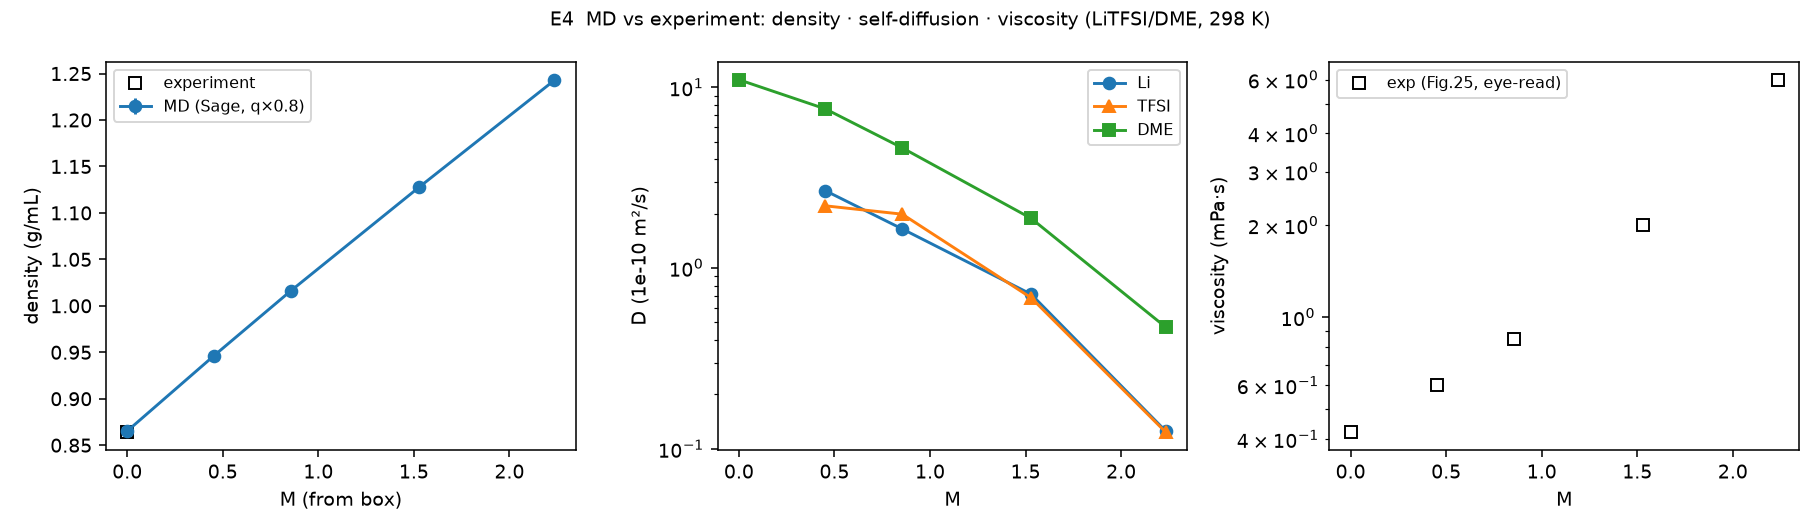
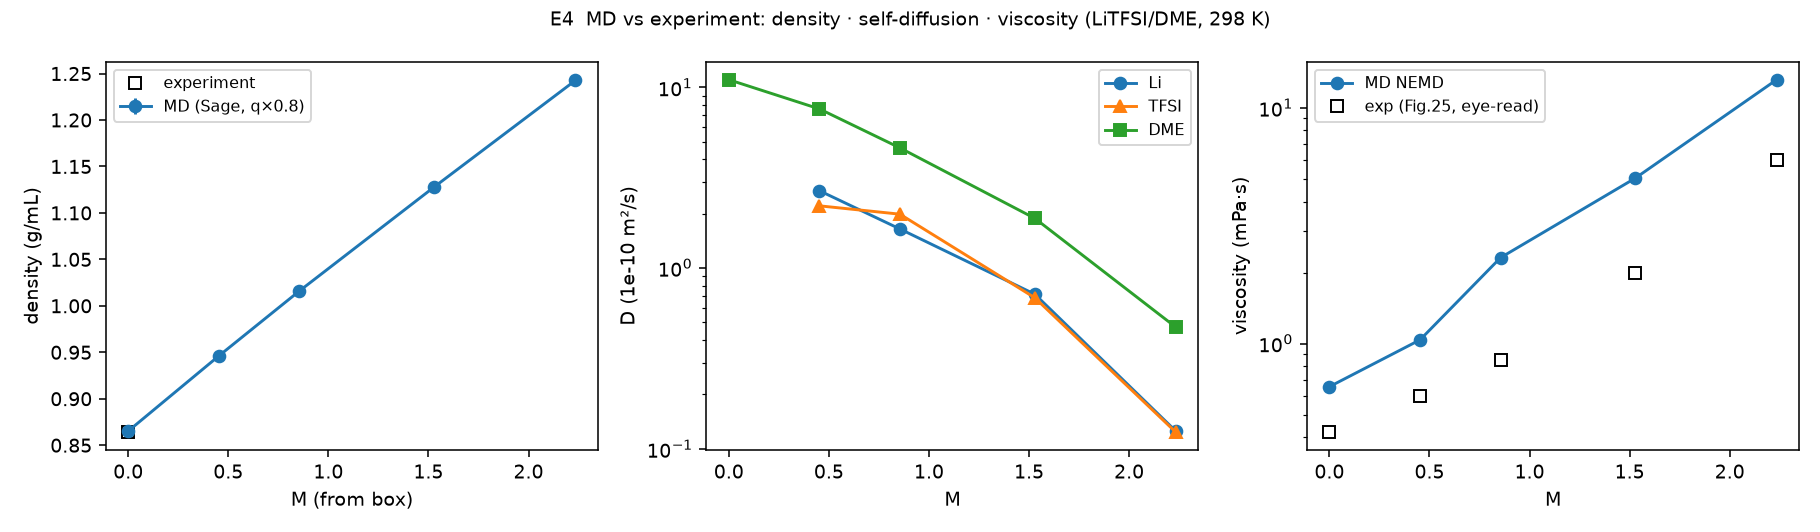
Draft REPORT_ELECTROLYTE.md with E1–E7, E9 results; add E6 and E4 figures
Claude-Session: https://claude.ai/code/session_01TPqN6aRH5ozdSoDnQ4tZ41

diff --git a/REPORT_ELECTROLYTE.md b/REPORT_ELECTROLYTE.md
@@ -1,0 +1,194 @@
+# 电解液计算专题：把综述里的方法真的跑一遍
+
+对象：Yao et al., *Chem. Rev.* 2022, 122, 10970 的 10 页方法摘要（p2–p6, p8–p12）。
+体系：LiTFSI/DME 浓度系列 + NaTFSI/DME 对照 + 石墨/电解液界面 + Li⁺–EC/DME 团簇。
+代码：`electrolyte_pipeline/`，每页一个模块；轨迹在 Modal A10G 上生成，分析与量子化学在本地 CPU。
+
+每个数字带三种标签之一：
+✅ 已做统计检查（分块误差、积分平台、线性响应）；⚠ 流程跑通但统计或模型不足以支持定量结论；❌ 未做、并说明原因。
+
+---
+
+## 0. 模型定义（p4 “建模信息至少写到这个程度”）
+
+| 项目 | 记录 |
+|---|---|
+| 组成 | 200 DME + n LiTFSI，n = 0 / 10 / 20 / 40 / 67（DME:Li = ∞ / 20 / 10 / 5 / 3）；NaTFSI n = 20 |
+| 浓度 | 主变量是 DME:Li 比；摩尔浓度由 NPT 平衡后的盒体积换算：M = N_Li / (N_A·V)，得 0.45 / 0.85 / 1.53 / 2.23 M |
+| 边界 | 立方周期盒 3.4–4.0 nm 初值，NPT 松弛；总电荷 0 |
+| 相互作用 | OpenFF Sage 2.2.1（SMIRNOFF），NAGL GNN AM1-BCC 分子电荷；离子形式电荷 ×0.8；PME，截断 1.0 nm，切换 0.9 nm，色散尾修正 |
+| 动力学 | Langevin-middle 298.15 K，1 ps⁻¹；MC 恒压 1 bar；2 fs，H 键约束；2 ns 平衡 + 10 ns 生产，帧间隔 2 ps |
+| 文件 | 每个体系目录含 system_record.json / system.xml / initial.pdb / equil.csv / prod.csv / prod.dcd / run_record.json（p4 “四类文件”） |
+
+力场不是为 LiTFSI/DME 专门调过的通用力场；电荷缩放 0.8 是非极化力场做输运的常见做法。这两点是所有输运结果偏差的首要来源，E4 里用 q = 1.0 的对照体系明确检查了敏感性。
+
+**平衡检查**（p4 “先检查结构，再讨论长轨迹”）：平衡段后半段密度的分块漂移在所有体系都 ≤ 0.5 %；代码里的自动判据（漂移 < 2×分块标准差）在 r10/r5/r3 三个体系报 ⚠，因为分块标准差本身只有 0.1–0.2 %。生产段密度分块 SEM ≤ 0.0007 g/mL。结论：密度层面 ✅，但 r3（2.2 M）的势能仍有 −93 kJ/mol 的缓慢漂移（分块 SD 65），高浓体系 10 ns 不够长，其动力学量按 ⚠ 处理。
+
+---
+
+## 1. RDF 与配位数（p5）— `e2_rdf_cn`
+
+RDF 用整盒均匀密度归一化；r_min 取第一峰后平滑 g(r) 的第一个局部极小；N(r) = 4πρ∫g s² ds；同时给直接计数。两者在所有体系一致到 0.02。
+
+| 体系 | 对 | r_peak (Å) | r_min (Å) | N(r_min) | 分子级 CN | 分块均值 |
+|---|---|---|---|---|---|---|
+| LiTFSI r20 | Li–O(DME) | 2.09 | 4.07 | 5.7 | 2.9 | 稳定 ±0.05 |
+| LiTFSI r10 | Li–O(DME) | 2.09 | 4.07 | 5.21 ± 0.04 | 2.63 | 5.35 / 5.24 / 5.15 / 5.17 / 5.13 |
+| LiTFSI r10 | Li–O(TFSI) | 2.09 | 3.33 | 0.63 ± 0.04 | 0.39 | 0.53 … 0.75（波动大） |
+| LiTFSI r5 | Li–O(DME) / O(TFSI) | 2.09 / 2.11 | 3.93 / 3.29 | 4.59 / 1.15 | 2.31 / 0.72 | ✅ |
+| LiTFSI r3 | Li–O(DME) / O(TFSI) | 2.07 / 2.11 | 3.93 / 3.29 | 3.81 / 1.93 | 1.92 / 1.20 | ⚠ 分块单调漂移 |
+| NaTFSI r10 | Na–O(DME) / O(TFSI) | 2.41 / 2.45 | 3.87 / 3.51 | 5.71 / 0.40 | 2.95 / 0.28 | ✅ |
+
+- 总 O 配位数在 Li 系列几乎不变（5.86 → 5.84 → 5.74 → 5.74），变的是 DME 与 TFSI 的分配：这正是 p5/p6 说的“峰高不等于配位数、要看分布”。
+- 最常见壳层组合：r20 (6,0) 64 %；r10 (6,0) 60 %、(4,2) 21 %；r3 (4,2) 33 %、(6,0) 20 %、(2,4) 18 %。
+- **O 原子 CN ≠ 分子 CN**：r10 里 5.21 个 O(DME) 只对应 2.63 个 DME 分子（双齿螯合），p5 面板 B 的要点被数字复现。
+- Li vs Na（p5 “做锂/钠对比时尤其注意”）：同比例下 Na 第一峰远 0.32 Å，总 O 配位 6.1 vs 5.8，与 TFSI 的直接接触更少（0.40 vs 0.63）。这是此力场下的结果，不外推到其他溶剂。
+- 代表构型 `figures/electrolyte/e2_shell_<体系>.pdb` 由最常见组合抽取，供 E5 使用。
+
+图：`figures/electrolyte/e2_rdf_*.png`, `e2_series.png`。
+
+---
+
+## 2. SSIP / CIP / AGG（p6）— `e3_clusters`
+
+判据写在数字旁边：接触 = 任一 O(TFSI) 与阳离子距离 < r_cut，r_cut 取 E2 的 Li–O(TFSI) 第一极小（3.29–3.51 Å）；图论连通分量：2 离子 = CIP，≥3 = AGG；**free 与 SSIP 未区分**（需要第二壳层判据，本模块没有定义）。
+
+| 体系 | r_cut | 无接触(free+SSIP) | CIP | AGG | 阴离子参与率 | 每个成键阴离子上的阳离子数 | 最大团簇(离子) |
+|---|---|---|---|---|---|---|---|
+| LiTFSI r20 (0.45 M) | 3.39 | 0.67 ± 0.03 | 0.32 ± 0.03 | 0.00 | 0.33 | 1.00 | 3 |
+| LiTFSI r10 (0.85 M) | 3.33 | 0.63 ± 0.02 | 0.28 ± 0.01 | 0.09 ± 0.02 | 0.36 | 1.10 | 7 |
+| LiTFSI r5 (1.5 M) | 3.29 | 0.37 ± 0.01 | 0.40 ± 0.02 | 0.22 ± 0.02 | 0.63 | 1.15 | 9 |
+| LiTFSI r3 (2.2 M) | 3.29 | 0.21 ± 0.01 | 0.22 ± 0.02 | 0.57 ± 0.03 | 0.83 | 1.44 | 20 |
+| NaTFSI r10 | 3.51 | 0.75 ± 0.02 | 0.21 ± 0.02 | 0.04 ± 0.01 | 0.27 | 1.03 | 6 |
+
+r3 出现横跨 20 个离子的连通网络，且每个成键 TFSI 平均桥连 1.44 个 Li：p6 面板 B “局部壳层不再彼此独立”在这里就是一个可数的量。换一个 r_cut 或换成 N/F 原子判据，比例会变，所以表头必须带判据。图：`e3_clusters.png`。
+
+---
+
+## 3. 密度、扩散、电导、黏度、介电（p8）— `e4_properties`, `e4_nemd_viscosity`
+
+| 体系 | M | ρ 模拟 (g/mL) | ρ 实验 | D_Li/Na | D_TFSI | D_DME | σ_NE | σ_EH | σ_EH/σ_NE | ε(溶剂) | η 模拟 (mPa·s) | η 实验 |
+|---|---|---|---|---|---|---|---|---|---|---|---|---|
+| DME 纯 | 0 | 0.8652 ± 0.0001 ✅ | 0.8637 | – | – | 11.0 ± 0.3 | – | – | – | 9.95 ⚠ | 0.66 ± 0.05 ✅ | 0.42 |
+| LiTFSI r20 | 0.45 | 0.9461 ± 0.0001 | – | 2.68 ± 0.52 | 2.21 ± 0.20 | 7.59 | 0.53 | 0.39 | 0.73 | 7.55 | 1.04 ± 0.07 ✅ | ≈0.6 |
+| LiTFSI r10 | 0.85 | 1.0159 ± 0.0002 | – | 1.64 ± 0.09 | 1.98 ± 0.17 | 4.62 | 0.75 | 0.23 | 0.31 | 6.01 | 2.31 ± 0.09 ✅ | ≈0.85 |
+| LiTFSI r5 | 1.53 | 1.1280 ± 0.0005 | – | 0.72 ± 0.12 | 0.68 ± 0.11 | 1.88 | 0.51 | 0.10 | 0.19 | 4.38 | 5.0 ± 0.2 ⚠ | ≈2 |
+| LiTFSI r3 | 2.23 | 1.2426 ± 0.0007 | – | 0.12 ± 0.01 | 0.12 ± 0.02 | 0.47 | 0.13 | 0.010 ⚠ | 0.07 | 2.83 | 见下 ⚠ | ≈6 |
+| NaTFSI r10 | 0.85 | 1.0208 ± 0.0001 | – | 1.68 ± 0.13 | 2.07 ± 0.08 | 4.92 | 0.76 | 0.54 | 0.71 | 5.46 | 1.65 ± 0.06 ✅ | – |
+| LiTFSI r10, q=1.0 | 0.85 | 1.0238 ± 0.0003 | – | 1.46 | 1.47 | 4.66 | 0.95 | 0.59 | 0.62 | – | – | – |
+
+D 单位 1e-10 m²/s，σ 单位 S/m。实验黏度是从综述 Fig.25 空心圆按眼读的（对数轴 ±20 %），只作参考；实验密度只有纯 DME 我有把握。
+
+怎么读这张表：
+
+- **密度**：纯 DME 偏差 0.2 %，✅。LiTFSI 系列没有可靠实验值可比，留空而不是猜。
+- **扩散**：所有 D 的 log–log 斜率在 0.86–1.04（拟合窗口 1.5–4.5 ns），扩散区已到；SEM 来自 4 段独立拟合。r3 的 D 只有 1.2e-11，10 ns 内 Li 平均只走 √(6Dt) ≈ 8 Å，⚠。
+- **电导**：Nernst–Einstein 忽略离子相关，Einstein–Helfand 包含它；两者之比从 0.73 (r20) 降到 0.07 (r3)，与 E3 的聚集比例同向。σ_EH 来自单一集体量，没有独立轨迹就没有误差棒，r3 的 0.010 S/m 基本是噪声。**用的是模型电荷 0.8e**；q = 1.0 对照给 σ_NE 0.95、σ_EH 0.59，说明电荷缩放对集体量的影响（×2.5）远大于对单粒子 D 的影响（×0.9）。这与 p3 “受力模型、体系环境和采样误差都影响答案”一致。
+- **黏度**：OpenMM 不输出压力张量，Green–Kubo 不可用，改用周期扰动 NEMD（Hess 2002）：a_x(z) = A cos(2πz/L_z)，Nosé–Hoover NVT，每 20 步刷新受力，两种振幅检查线性。
+  - 纯 DME 0.63/0.68 → 0.66 ± 0.05（振幅差 8 %）✅；r20 1.08/0.99 ✅；r10 2.25/2.37 ✅；NaTFSI 1.73/1.57 ✅。
+  - r5 5.53/4.53（差 20 %）⚠；r3 三次尝试：A=0.01/0.02 噪声淹没；A=0.05/0.10 得 20.2/6.1（差 108 %，大振幅进入剪切变稀）；第三次 A=0.03/0.05、6 ns 的结果见 §3.1。
+  - 与实验比：模型黏度高出实验 1.6×（纯 DME）到 2.7×（r10），方向与 D 偏低一致：这个通用力场把 DME 的液体粘性做过头了。这是 p8 “黏度怎么从模拟里得到”里说的“方法选择和实现细节必须报告”的实例：方法、驱动、刷新间隔、线性检查全部在 `e4_nemd.json`。
+- **介电常数**：只算了 DME 偶极涨落（离子部分排除，导电体系的修正未加），非极化力场 ε∞ = 1。纯 DME 9.95 vs 实验 7.2，偏高 38 %，⚠：NAGL 电荷给 DME 的偶极偏大。随盐浓度 ε(溶剂) 单调下降（7.6 → 2.8），定性对应 Fig.24 的 DME/LiFSI 曲线，但 Fig.24 的量包括离子贡献，不是同一个定义。
+
+### 3.1 r3 黏度第三次尝试
+
+（待补：Modal 作业运行中）
+
+图：`e4_msd_*.png`, `e4_series.png`。
+
+---
+
+## 4. 量子化学：Li⁺–EC / Li⁺–DME 团簇（p2）— `e5_qc_clusters`
+
+B3LYP/def2-SVP 优化（geomeTRIC），B3LYP/def2-TZVP 单点，气相，+1 单重态，纯电子能。四种起始摆放各自优化：
+
+| 起点 | 终点 | ΔE 垂直 | +CP | ΔE 弛豫+CP | BSSE | 溶剂形变 | GFN2-xTB 垂直 | Li–O (Å) |
+|---|---|---|---|---|---|---|---|---|
+| EC 羰基 O | 羰基 O | −54.5 | −54.2 | **−51.3** | +0.3 | +2.9 | −60.7 | 1.72 |
+| EC 醚 O | 迁移到羰基 O | −54.5 | −54.2 | −51.3 | +0.3 | +2.9 | −60.7 | 1.72 |
+| DME 双齿 | 双齿 | −67.6 | −66.9 | **−63.0** | +0.6 | +3.9 | −78.3 | 1.85 / 1.85 |
+| DME 单齿 | 迁移到双齿 | −67.6 | −66.9 | −63.0 | +0.6 | +3.9 | −78.3 | 1.85 / 1.85 |
+
+单位 kcal/mol。
+
+- 同一个复合物给出三种“结合能”（垂直 −54.5、CP 修正 −54.2、弛豫 −51.3），差 3 kcal/mol；p2 面板 D “先给结合能下定义”的必要性就在这一行。
+- 两个 EC 起点、两个 DME 起点各自收敛到同一极小（差 0.00 / 0.02 kcal/mol）：这次多起点没有找到第二个极小，但这不等于不需要多起点。
+- GFN2-xTB 把两个结合能都高估 9–15 kcal/mol，见 E8-A。
+- **从液相切出的壳层**（E2 最常见组合 (6,0)，Li(DME)₃，49 原子，GFN2-xTB 弛豫后 def2-SVP 单点）：Li⁺ 与整个壳层的相互作用能 −139.9（垂直）/ −133.7（CP）kcal/mol，Li–O 2.07/2.07/2.12/2.14/2.89/3.24 Å。三个 DME 合起来只有单个 DME 的 2.1 倍，不是 3 倍：1:1 结合能不能相加。这是单快照、无热校正、无溶剂，⚠。
+
+图：`e5_qc_binding.png`；结构 `elyte_work/e5_qc/*.xyz`。
+
+---
+
+## 5. 脱溶剂化：同一坐标、两种不同的量（p11）— `e6_desolvation`
+
+坐标：Li…O1(DME) 距离。
+
+- **(2) 气相电子能剖面**（B3LYP/def2-SVP 约束扫描，其余自由度弛豫，1.8 → 5.0 Å）：单调上升，E(5.0) − E(min) = 25.1 kcal/mol，且在 5 Å 时另一个 O 仍在 1.84 Å——扫描的是“把双齿拉成单齿”，不是脱溶剂化；GFN2-xTB 曲线低 1–3 kcal/mol。
+- **(3) 液相 PMF**，W = −kT ln g(r)，LiTFSI r10 经典力场，所有 DME/TFSI 在场：最小值 −1.92 kcal/mol 在 2.09 Å，离开第一壳层的势垒 ≈ 4.1 kcal/mol 在 4.05 Å（5 % 的 bin 未采样，势垒是下界）。没有做伞形采样或元动力学，所以只在无偏轨迹采到的区域有效。
+
+两个数相差 6 倍，量纲相同、名字都可以叫“脱溶剂化”，但一个是真空 1:1 复合物的电子能，一个是液体中的自由能；报告时必须把“模型、路径、坐标、参考态、温度、采样方法”一起写（p11 “写论文时可以怎样表述”）。图：`e6_desolvation.png`。
+
+---
+
+## 6. 界面结构（p9）— `e7_interface`
+
+模型：3 层 AB 石墨基面（1344 个固定 C，OPLS 芳香 C LJ，**不带电**，不极化），34.4 × 34.1 Å 面内，251 DME + 25 LiTFSI 液层 40 Å，NVT，1 + 4 ns。液层填充量按 E1 体相密度校准了三次（236 → 0.921 g/cm³，258 → 1.062，251 → 0.992；体相 1.016，差 −2.4 %，⚠）。z′ 以顶层碳平面为零。
+
+| 物种 | 第一峰 z′ (Å) |
+|---|---|
+| F(TFSI) | 3.1 |
+| DME 质心 | 3.9 |
+| O(DME) | 4.7 |
+| N(TFSI) | 5.5 |
+| Li | 5.9 |
+
+- 第一液层是 DME（贴面）和 TFSI 的 CF₃ 端（F 在 3.1 Å）；Li 不直接接触石墨，第一峰在 5.9 Å，位于 DME 第一层的 O 之上，ρ_Li/ρ_bulk 峰值 4.9。W_Li(z) = −kT ln(ρ/ρ_bulk) 给出 −0.9 kcal/mol 的近表面阱和 4 Å 处的排斥壁。
+- DME O–O 向量与法向的 |cos θ|：近表面 0.44，体相 0.50（各向同性）——第一层 DME 轻微平躺。
+- 这些是未带电、刚性、无电位控制表面上的结果；换电荷态、换 Li 金属或加 SEI，分层会变（p9 “把界面模型写清楚”）。数密度、取向、PMF 三种量各说各的事（p9 “报告量与结论的对应”），从这里推不出脱溶剂化动力学。
+
+图：`e7_interface.png`。
+
+---
+
+## 7. AI4Electrolytes：势模型与性质模型分开验证（p12）— `e8_ml`
+
+（待补：DFT 梯度计算运行中）
+
+---
+
+## 8. 反应与 SEI：本项目不做的部分（p10）— `e9_reactive`
+
+固定拓扑力场：对 LiTFSI r10 的 200 帧按距离判据追踪 1280 个重原子键，键拓扑变化 = 0，最大键伸长比 1.16。这是模型性质，不是化学结论 ❌。没有跑 ReaxFF/eReaxFF（这里没有经验证的 Li/EC/DME/TFSI 参数集，用未验证参数违反 p3 的规则），也没有跑 AIMD（Fig.26/28 的尺度远超本次算力，几 ps 的“没看到反应”不是证据，p10 “这类模拟最容易被过度解释的地方”）。
+
+---
+
+## 9. 与综述图对照时能说什么、不能说什么
+
+| 综述图 | 本项目对应 | 可比程度 |
+|---|---|---|
+| Fig.6b RDF、Fig.5a P(n) | E2 | 定性：Li–O 峰位 2.09 Å、总 CN ≈ 5.8、Li/Na 分布宽度差异；体系不同（EC vs DME） |
+| Fig.8b SSIP/CIP/AGG 比例 | E3 | 趋势一致（AGG 随浓度上升），判据不同不能直接比数值 |
+| Fig.25 黏度 | E4 NEMD | 同一体系；模型高 1.6–2.7×，定性趋势（随浓度指数上升）复现 |
+| Fig.24 介电常数 | E4 ε(溶剂) | 不同定义（本项目排除离子贡献），只能说单调下降 |
+| Fig.14a 界面数密度 | E7 | 同为未带电石墨；溶剂不同 |
+| Fig.31a/b 自由能 | E6 | 坐标与体系都不同；本项目展示的是“两种量不可混用” |
+| Fig.26/28 反应 | E9 | ❌ 未做 |
+
+## 10. 下一步（按性价比排序）
+
+1. 力场：对 LiTFSI/DME 换 CL&P/OPLS 参数或极化模型，先修黏度和 D 的系统偏差；q 缩放做 0.7/0.8/0.9 扫描。
+2. r3 及更高浓度延长到 50–100 ns，σ_EH 用 3–5 条独立轨迹给误差。
+3. E6 的液相坐标做伞形采样，把 4 Å 处的势垒从“下界”变成数值。
+4. 界面加表面电荷（±），比较 Li 第一峰位置和 TFSI 取向的变化。
+5. E5 的壳层能量做 5–10 个快照的统计，并加溶剂化模型。
+
+## 复现
+
+```bash
+modal run electrolyte_pipeline/modal_run.py                    # 6 个体相体系，约 17 min/体系 (A10G)
+modal run electrolyte_pipeline/modal_run.py --stage nemd       # 黏度
+modal run electrolyte_pipeline/modal_run.py --stage interface  # 界面
+modal volume get elyte-work / elyte_work/
+python -m electrolyte_pipeline.run_all --qc                    # E2–E9（含 CPU 量子化学，约 2 h）
+```
